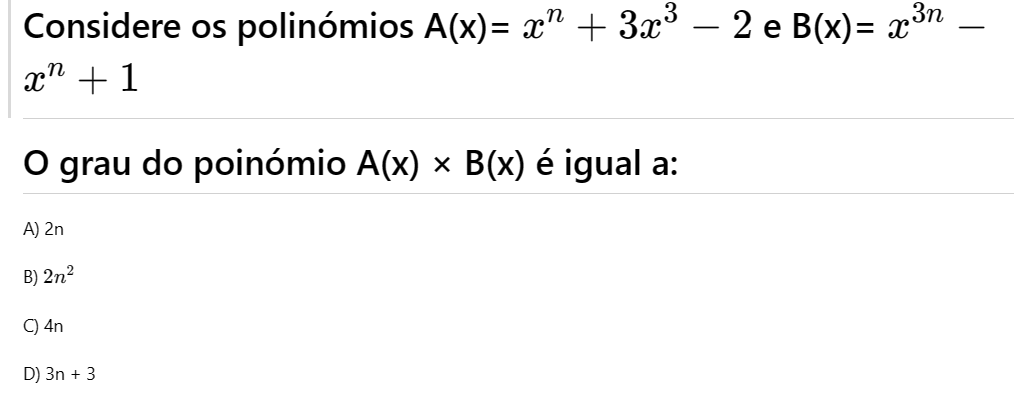
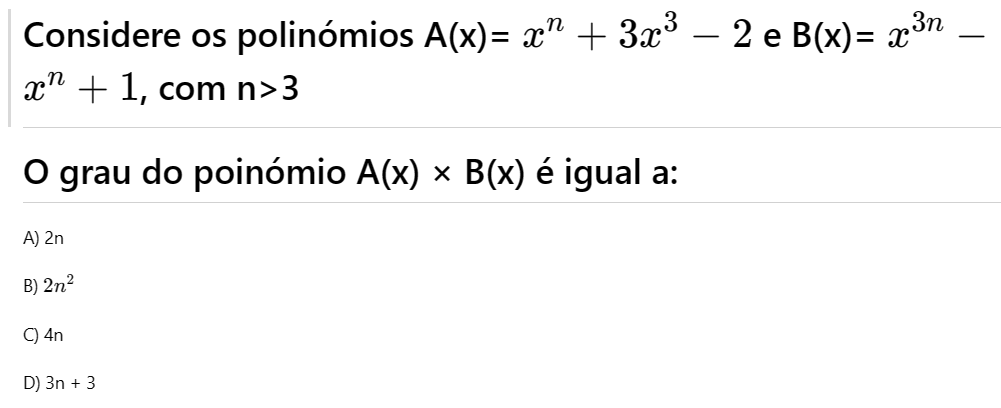
Adicionar exercícios

diff --git a/exercises/10º Ano/Matemática A/Álgebra/Polinómios/Biatómico/question.md b/exercises/10º Ano/Matemática A/Álgebra/Polinómios/Biatómico/question.md
@@ -1,4 +1,4 @@
-# Considere os polinómios A(x)= $x^{n} + 3x^{3} - 2$ e B(x)= $x^{3n} - x^{n} + 1$
+# Considere os polinómios A(x)= $x^{n} + 3x^{3} - 2$ e B(x)= $x^{3n} - x^{n} + 1$, com n>3
 # O grau do poinómio A(x) × B(x) é igual a:
 
 A) 2n
@@ -8,3 +8,4 @@ B) $2n^{2}$
 C) 4n
 
 D) 3n + 3
+
